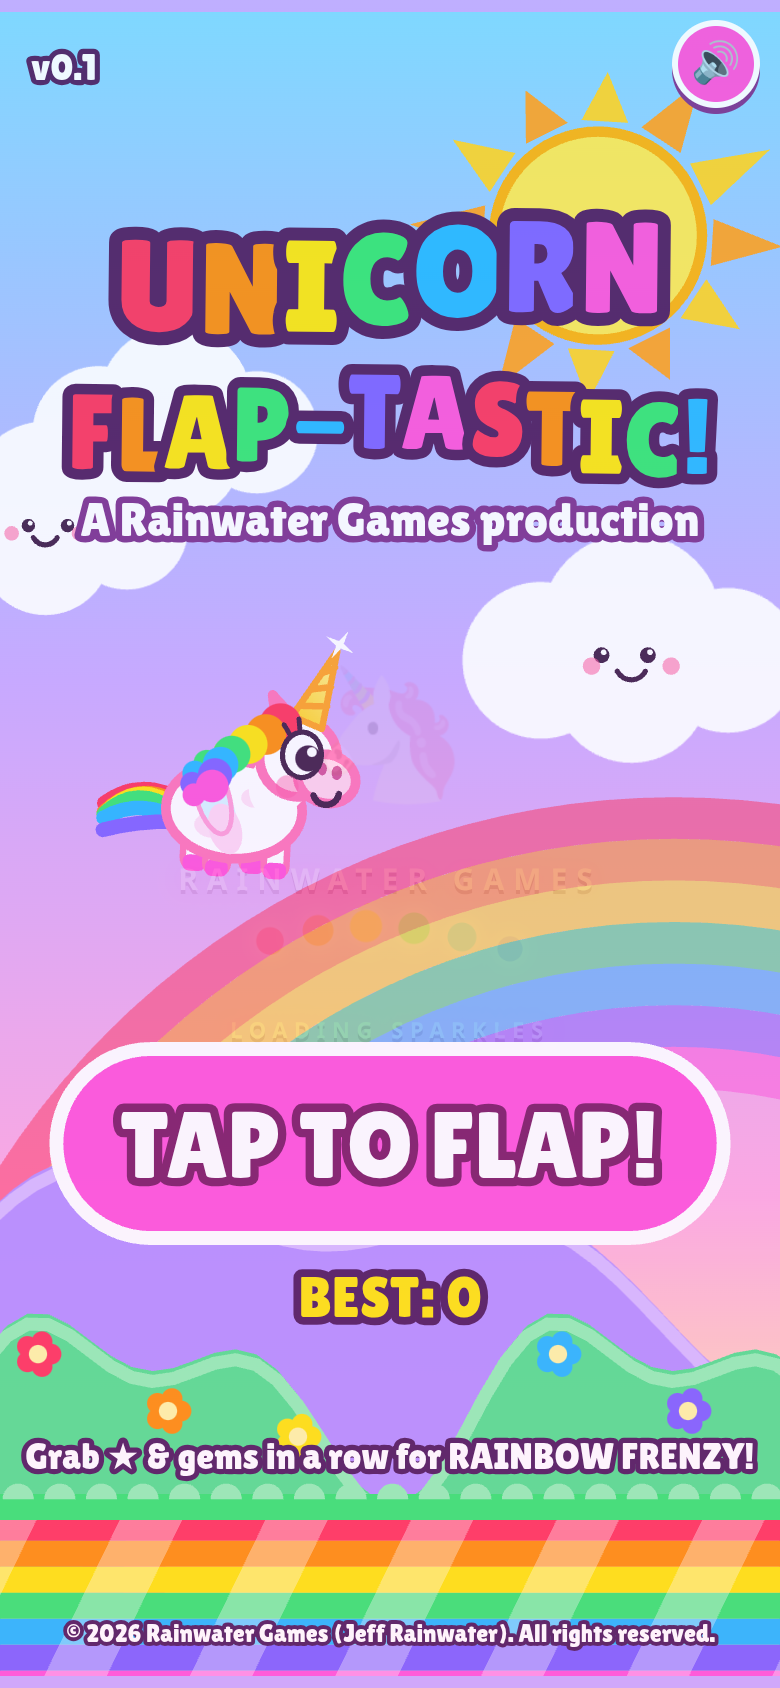
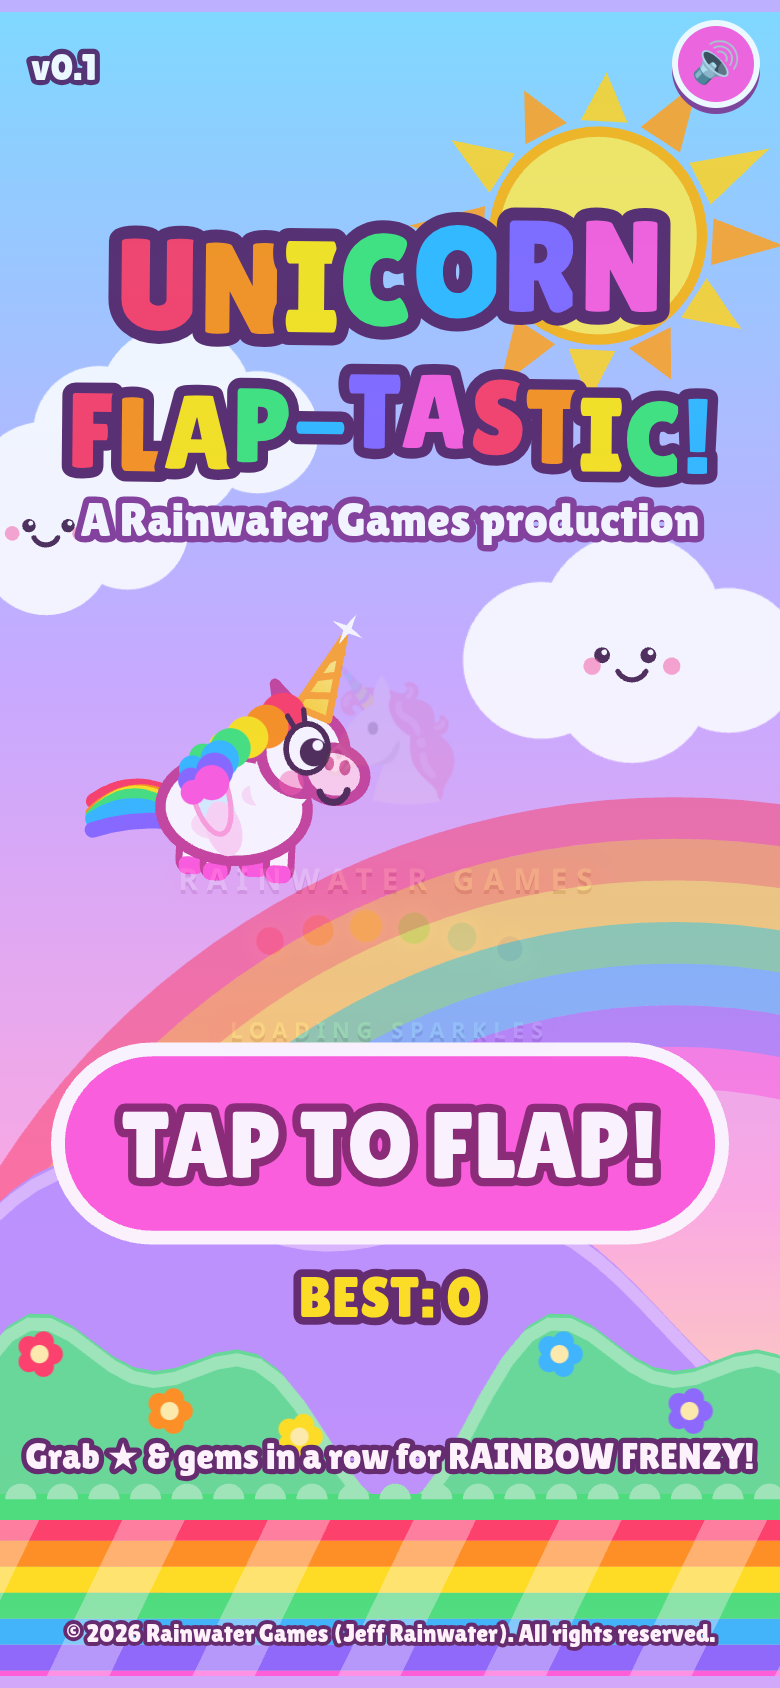
Bigger, bolder-outlined unicorn; softer frenzy tint; fresh screenshots

diff --git a/game.js b/game.js
@@ -230,7 +230,7 @@ function strip(h,par){const o=((G.bgx*par)%HP+HP)%HP;cx.drawImage(h.c,-o,h.top,H
 function drawSky(){
   if(!BG)buildBG();const fr=G.frenzy>0;
   cx.drawImage(BG.sky,0,0,W,H);
-  if(fr){cx.globalAlpha=0.25;cx.fillStyle=`hsl(${(G.t*240)%360},100%,60%)`;cx.fillRect(0,0,W,H);cx.globalAlpha=1;}
+  if(fr){cx.globalAlpha=0.15;cx.fillStyle=`hsl(${(G.t*240)%360},100%,60%)`;cx.fillRect(0,0,W,H);cx.globalAlpha=1;}
   const sx=W-70,sy=86;cx.save();cx.translate(sx,sy);cx.rotate(G.t*0.4);
   for(let i=0;i<12;i++){cx.rotate(TAU/12);cx.fillStyle=i%2?'#ffd21f':'#ff9f1c';cx.beginPath();cx.moveTo(-9,-44);cx.lineTo(0,-68-Math.sin(G.t*4+i)*6);cx.lineTo(9,-44);cx.fill();}
   cx.restore();cx.fillStyle='#ffe94d';cx.beginPath();cx.arc(sx,sy,40,0,TAU);cx.fill();cx.strokeStyle='#ffb000';cx.lineWidth=4;cx.stroke();
@@ -302,21 +302,21 @@ function drawTrail(){const tr=G.trail;if(tr.length<3)return;cx.lineCap='round';c
 function drawUnicorn(u){
   const t=G.t;cx.save();cx.translate(u.x,u.y);cx.rotate(u.rot);
   const sx=1/Math.sqrt(u.sq)*(u.sq<1?1:1), sy=u.sq; cx.scale(1+(1-sy)*0.6,sy+(1-sy)*0.2);
-  cx.scale(1.25,1.25);
+  cx.scale(1.35,1.35);
   // tail (rainbow strands)
   for(let i=0;i<6;i++){cx.strokeStyle=RB[i];cx.lineWidth=4.5;cx.lineCap='round';cx.beginPath();cx.moveTo(-18,-3+i*1.5);
     cx.quadraticCurveTo(-30,-12+i*3+Math.sin(t*12+i)*4,-40,-6+i*4+Math.sin(t*10+i*0.7)*6);cx.stroke();}
   // legs
   const kick=u.flapT>0?Math.sin(u.flapT*30)*5:Math.sin(t*14)*1.5;
-  for(const [lx,ph] of [[-12,0],[-5,1],[6,0],[13,1]]){cx.fillStyle='#fff';cx.strokeStyle='#ff6fb5';cx.lineWidth=2;rr(lx-3,6,7,13+(ph?kick:-kick)*0.5,3);cx.fill();cx.stroke();cx.fillStyle='#ff4fd8';rr(lx-3,15+(ph?kick:-kick)*0.5,7,5,2);cx.fill();}
+  for(const [lx,ph] of [[-12,0],[-5,1],[6,0],[13,1]]){cx.fillStyle='#fff';cx.strokeStyle='#c2338f';cx.lineWidth=2;rr(lx-3,6,7,13+(ph?kick:-kick)*0.5,3);cx.fill();cx.stroke();cx.fillStyle='#ff4fd8';rr(lx-3,15+(ph?kick:-kick)*0.5,7,5,2);cx.fill();}
   // body
-  cx.fillStyle='#fff';cx.strokeStyle='#ff6fb5';cx.lineWidth=3;cx.beginPath();cx.ellipse(0,0,21,15,0,0,TAU);cx.fill();cx.stroke();
+  cx.fillStyle='#fff';cx.strokeStyle='#c2338f';cx.lineWidth=3;cx.beginPath();cx.ellipse(0,0,21,15,0,0,TAU);cx.fill();cx.stroke();
   cx.fillStyle='#ffe0f4';cx.beginPath();cx.ellipse(-6,5,6,4,0,0,TAU);cx.ellipse(6,-4,4,3,0,0,TAU);cx.fill();
   // wing
   cx.save();cx.translate(-3,-8);cx.rotate(-0.6-u.wing*1.4+Math.sin(t*(G.state==='title'?10:4))*0.2);
   for(let i=0;i<3;i++){cx.fillStyle=['#fff','#d6f3ff','#ffd6f2'][i];cx.beginPath();cx.ellipse(-4-i*5,-4+i*2,12-i*2,5,-0.3,0,TAU);cx.fill();}cx.strokeStyle='#ff9ad5';cx.lineWidth=1.5;cx.beginPath();cx.ellipse(-4,-4,12,5,-0.3,0,TAU);cx.stroke();cx.restore();
   // neck + head
-  cx.fillStyle='#fff';cx.strokeStyle='#ff6fb5';cx.lineWidth=3;cx.beginPath();cx.ellipse(14,-10,9,12,0.5,0,TAU);cx.fill();
+  cx.fillStyle='#fff';cx.strokeStyle='#c2338f';cx.lineWidth=3;cx.beginPath();cx.ellipse(14,-10,9,12,0.5,0,TAU);cx.fill();
   cx.beginPath();cx.arc(19,-17,12,0,TAU);cx.fill();cx.stroke();
   cx.beginPath();cx.ellipse(28,-11,9,7.5,0.2,0,TAU);cx.fillStyle='#ffd0ea';cx.fill();cx.stroke();
   cx.fillStyle='#d14d97';cx.beginPath();cx.ellipse(31,-13,1.6,2.2,0,0,TAU);cx.ellipse(26.5,-14,1.4,2,0,0,TAU);cx.fill();
